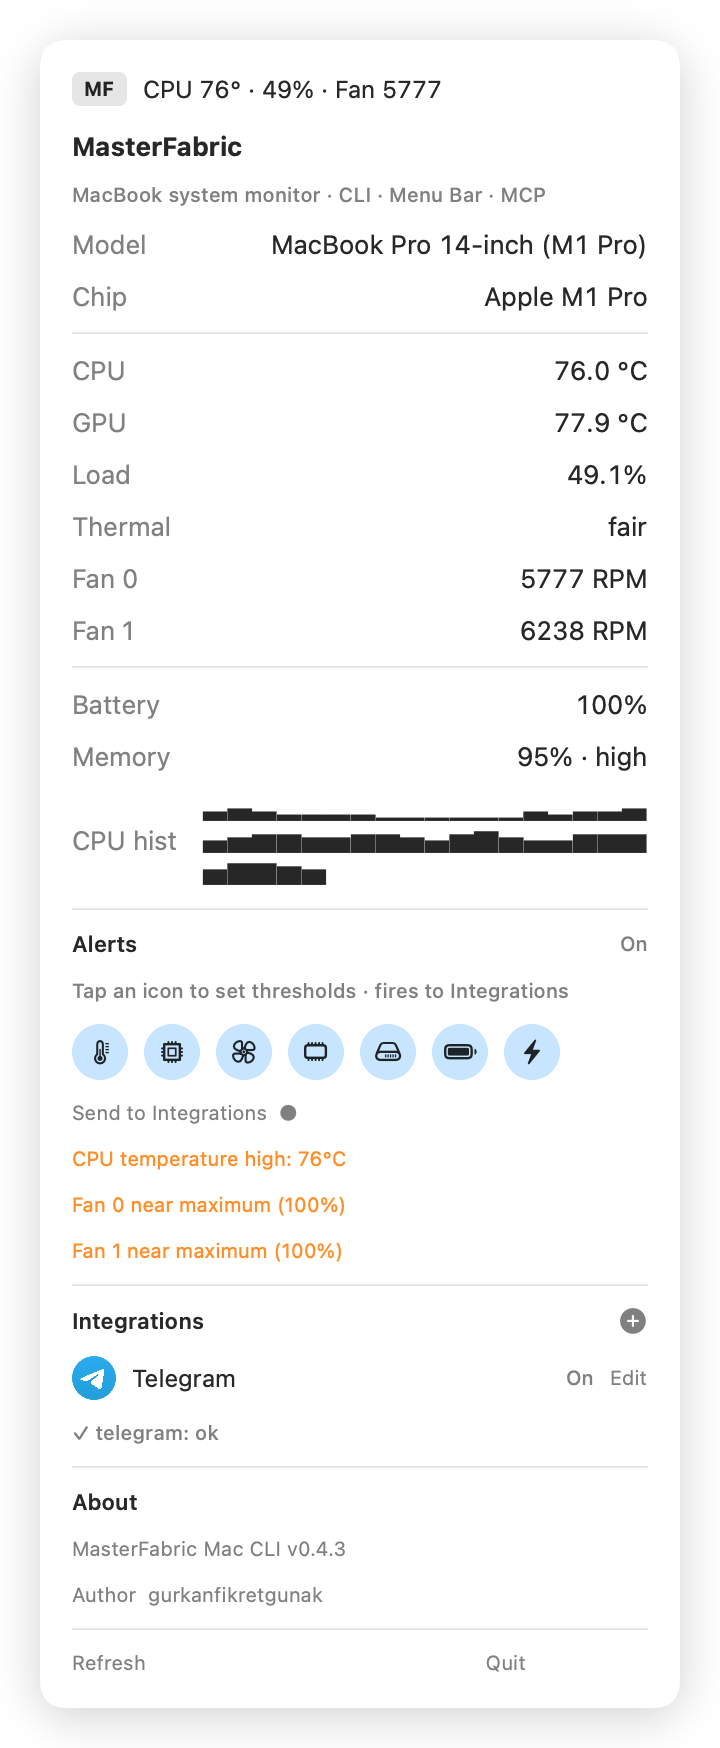
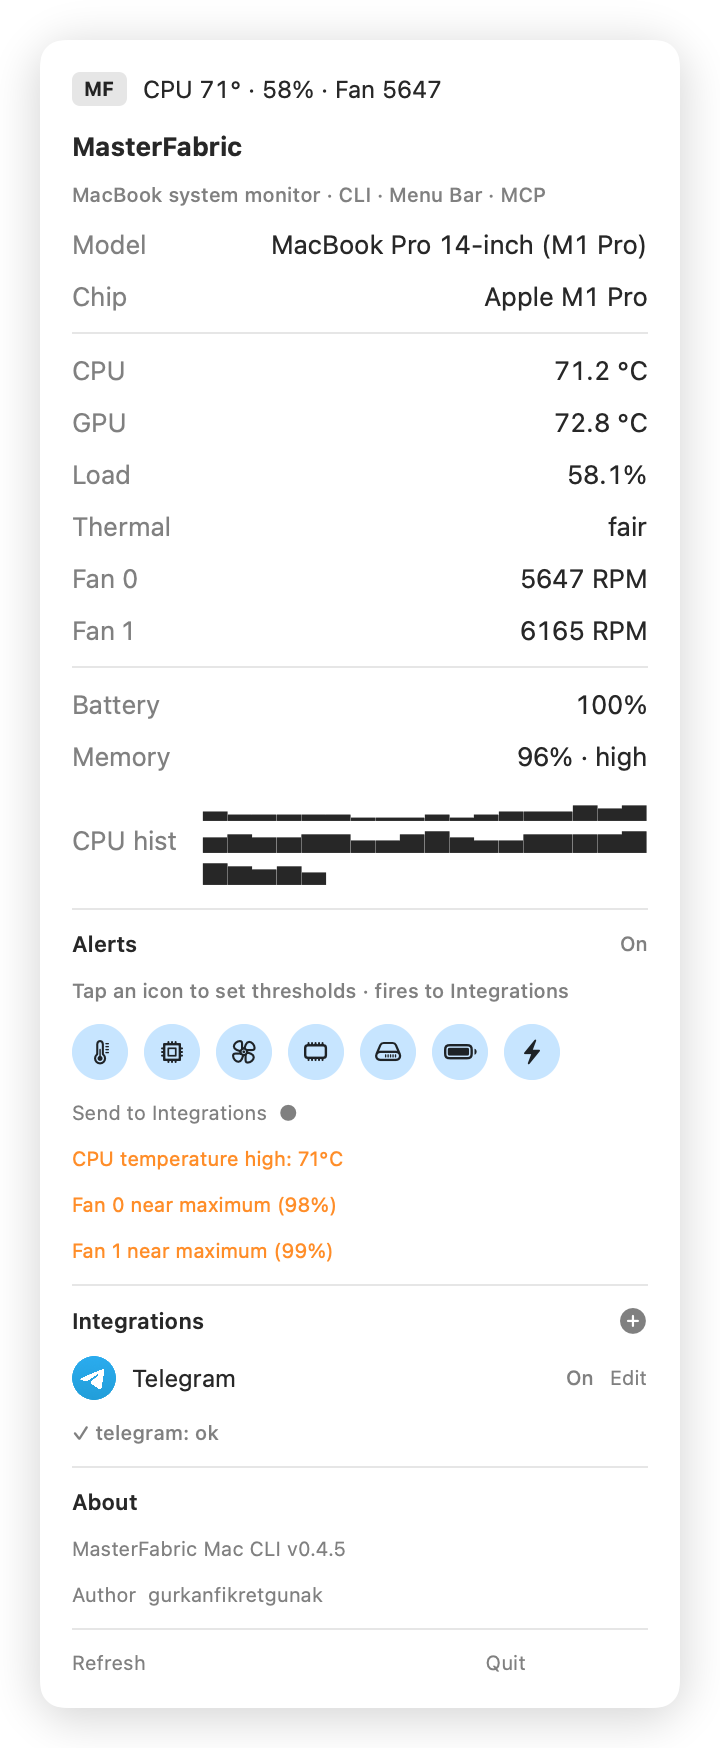
chore: release v0.4.5
Bump product version and refresh README screenshots for the latest build.

diff --git a/Sources/MasterFabricCore/Version.swift b/Sources/MasterFabricCore/Version.swift
@@ -2,7 +2,7 @@ import Foundation
 
 /// Single source of truth for the product version (keep in sync with root `VERSION`).
 public enum AppVersion {
-    public static let current = "0.4.3"
+    public static let current = "0.4.5"
     public static let repoOwner = "gurkanfikretgunak"
     public static let repoName = "masterfabric-mac-cli"
     public static var repoURL: String { "https://github.com/\(repoOwner)/\(repoName)" }

diff --git a/Formula/masterfabric.rb b/Formula/masterfabric.rb
@@ -1,7 +1,7 @@
 class MasterFabric < Formula
   desc "Open-source MacBook monitor — CLI, menu bar, and MCP for AI agents"
   homepage "https://github.com/gurkanfikretgunak/masterfabric-mac-cli"
-  url "https://github.com/gurkanfikretgunak/masterfabric-mac-cli/archive/refs/tags/v0.4.4.tar.gz"
+  url "https://github.com/gurkanfikretgunak/masterfabric-mac-cli/archive/refs/tags/v0.4.5.tar.gz"
   sha256 "REPLACE_WITH_RELEASE_TARBALL_SHA256"
   license "MIT"
   depends_on xcode: ["14.0", :build]